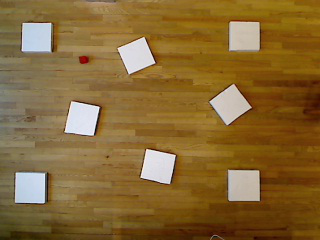
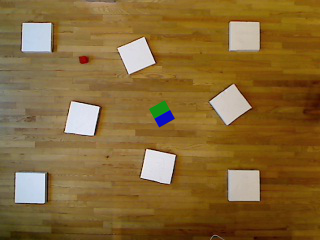
Robot-detection. Returnerer array med 2 koordinater. Testet med test1.png - en robot.

Changed region(s): [[0.4688, 0.4083, 0.5625, 0.525]]

diff --git a/src/image/ImageProcessing/src/dk/dtu/imm/c02343/grp4/imageprocessing/testimageprocessing/TestImageProcessor.java b/src/image/ImageProcessing/src/dk/dtu/imm/c02343/grp4/imageprocessing/testimageprocessing/TestImageProcessor.java
@@ -124,6 +124,27 @@ public class TestImageProcessor implements ActionListener {
 			tileImg.setRGB(pos[0], pos[1]-1, 0xFF00FFFF);
 		}
 		
+		try {
+			ArrayList<int[]> robots = ImageProcessor.findRobots(map, 3, 4);
+			itr = robots.iterator();
+			while(itr.hasNext()) {
+				int[] pos = itr.next();
+				System.out.println("Robot at [(" + pos[0] + "," + pos[1] + ")],[(" + pos[2] + "," + pos[3] + ")]");
+				tileImg.setRGB(pos[0],pos[1], 0xFF00FF00);
+				tileImg.setRGB(pos[0]+1,pos[1], 0xFF00FF00);
+				tileImg.setRGB(pos[0]-1,pos[1], 0xFF00FF00);
+				tileImg.setRGB(pos[0],pos[1]+1, 0xFF00FF00);
+				tileImg.setRGB(pos[0],pos[1]-1, 0xFF00FF00);
+				tileImg.setRGB(pos[2],pos[3], 0xFF0000FF);
+				tileImg.setRGB(pos[2]+1,pos[3], 0xFF0000FF);
+				tileImg.setRGB(pos[2]-1,pos[3], 0xFF0000FF);
+				tileImg.setRGB(pos[2],pos[3]+1, 0xFF0000FF);
+				tileImg.setRGB(pos[2],pos[3]-1, 0xFF0000FF);
+			}
+		} catch (Exception e) {
+			System.out.println(e.getMessage());
+		}
+		
 /*		int[] bounds = ImageProcessor.findBounds(map);
 		System.out.println("Boundaries: (top,left,bottom,right): ("+bounds[0]+","+bounds[1]+","+bounds[2]+","+bounds[3]+")");
 		for(int y = bounds[1]; y < bounds[3]; y++) {
